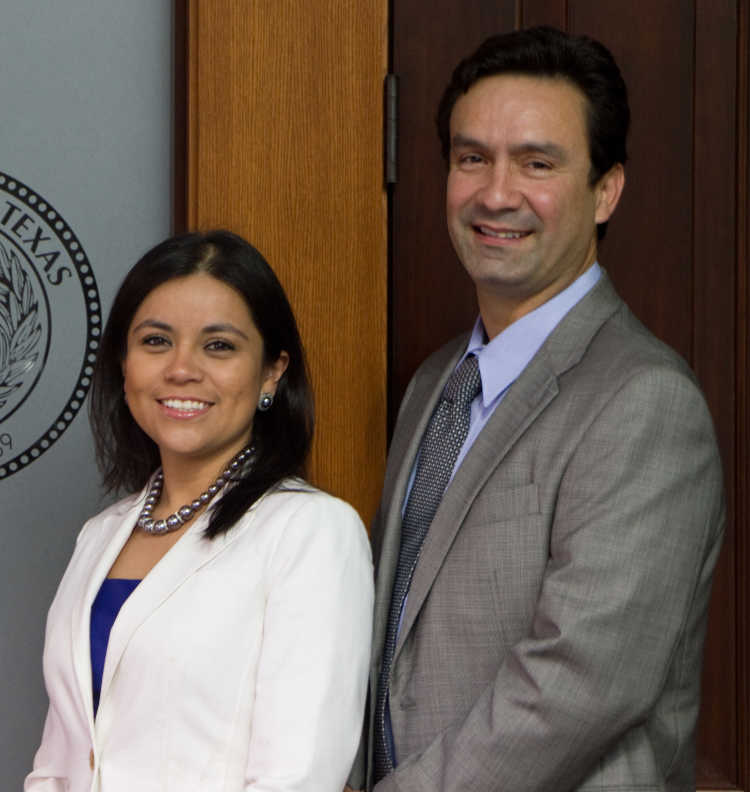
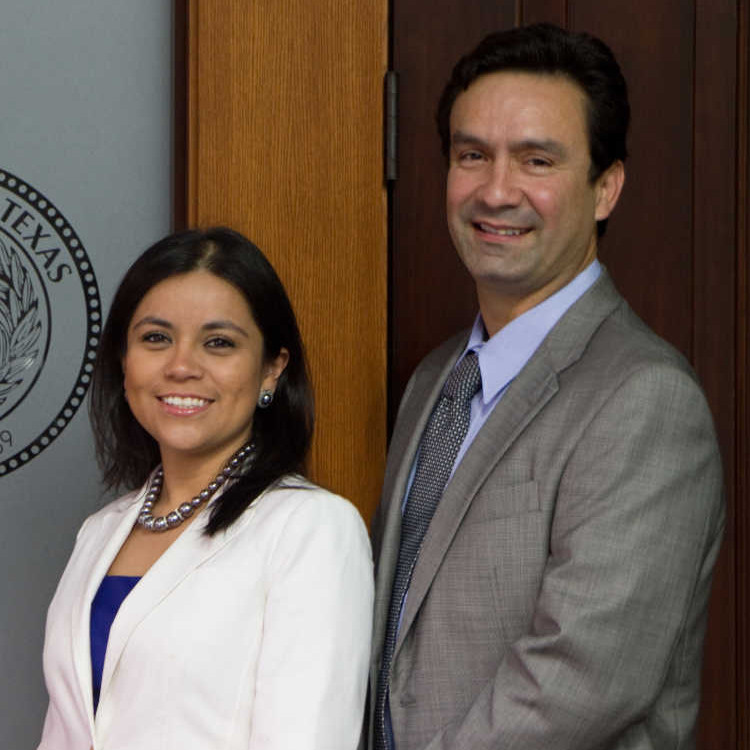
added individual photos to immigration and contact page

diff --git a/src/app/immigration/immigration.component.ts b/src/app/immigration/immigration.component.ts
@@ -11,7 +11,7 @@ export class ImmigrationComponent implements OnInit {
     "alt=media&token=9f87109e-3e4e-4ac1-a3ae-750459db4c01')";
   maldonadoImmigration = "https://firebasestorage.googleapis.com/v0/b/" +
     "maldonadoattorney-28622.appspot.com/o/maldonado-immigration.jpg?" +
-    "alt=media&token=fb2ab89c-4d15-40ee-ad5f-4c32fddcf5fa";
+    "alt=media&token=0c18a4d1-7d37-4fc9-82c9-fccbb9d28cef";
   width: number;
   titleEnglish = "Immigration";
   immigration1: string;
@@ -26,12 +26,14 @@ export class ImmigrationComponent implements OnInit {
 
   ngOnInit() {
     this.width = window.innerWidth;
-    this.immigration1 = 'I fully support immigrants in our nation. ';
-    this.immigration2 = ' My law practice has shifted away from immigration and DACA ' +
+    this.immigration1 = 'I fully support immigrants in the United States. ';
+    this.immigration2 = 'Immigrants and their children make the U.S. ' +
+    'unique, and also a better nation. ';
+    this.immigration3 = ' My law practice has shifted away from immigration and DACA ' +
       'applications. However, I am still here for advice with legal issues you ' +
       'may be having. This is especially true if you feel your problems are becoming ' +
       'complicated because of your legal status.';
-    this.immigration3 = 'Our staff are here to help all people who have come to the United States.';
+    this.immigration4 = 'Our staff are here to help all people who have come to the United States.';
     this.title = this.titleEnglish;
   }
 

diff --git a/src/app/immigration/immigration.component.scss b/src/app/immigration/immigration.component.scss
@@ -22,7 +22,7 @@ $black: #222;
   text-align:center;
   font-size:1.1rem;
   font-family: Times, serif;
-  line-height:1.2rem;
+  line-height:1.25rem;
   font-weight:bold;
 }
 
@@ -57,6 +57,22 @@ $black: #222;
   margin:0 auto;
   padding: 12px;
   border-bottom:2px solid $black;
+}
+
+
+@media (min-width: 400px) {
+  .individual-photo {
+    display:inline-block;
+    float:right;
+    //max-width:180px;
+    height:auto;
+    width: 45%;
+    border: 1px solid #222;
+    margin-left:15px;
+    margin-top:3px;
+    margin-right:3px;
+    margin-bottom:2px;
+  }
 }
 
 @media (min-width: 576px) {

diff --git a/src/app/dwi/dwi.component.scss b/src/app/dwi/dwi.component.scss
@@ -20,7 +20,7 @@ $black: #222;
 
 .intro-large {
   text-align:center;
-  font-size:1.1rem;
+  font-size:1.15rem;
   font-family: Times, serif;
   line-height:1.2rem;
   font-weight:bold;
@@ -62,6 +62,21 @@ $black: #222;
 @media (min-width: 576px) {
   .title {
     border-bottom:1px solid $black;
+  }
+}
+
+@media (min-width: 400px) {
+  .individual-photo {
+    display:inline-block;
+    float:right;
+    //max-width:180px;
+    height:auto;
+    width: 45%;
+    border: 1px solid #222;
+    margin-left:15px;
+    margin-top:3px;
+    margin-right:3px;
+    margin-bottom:2px;
   }
 }
 
